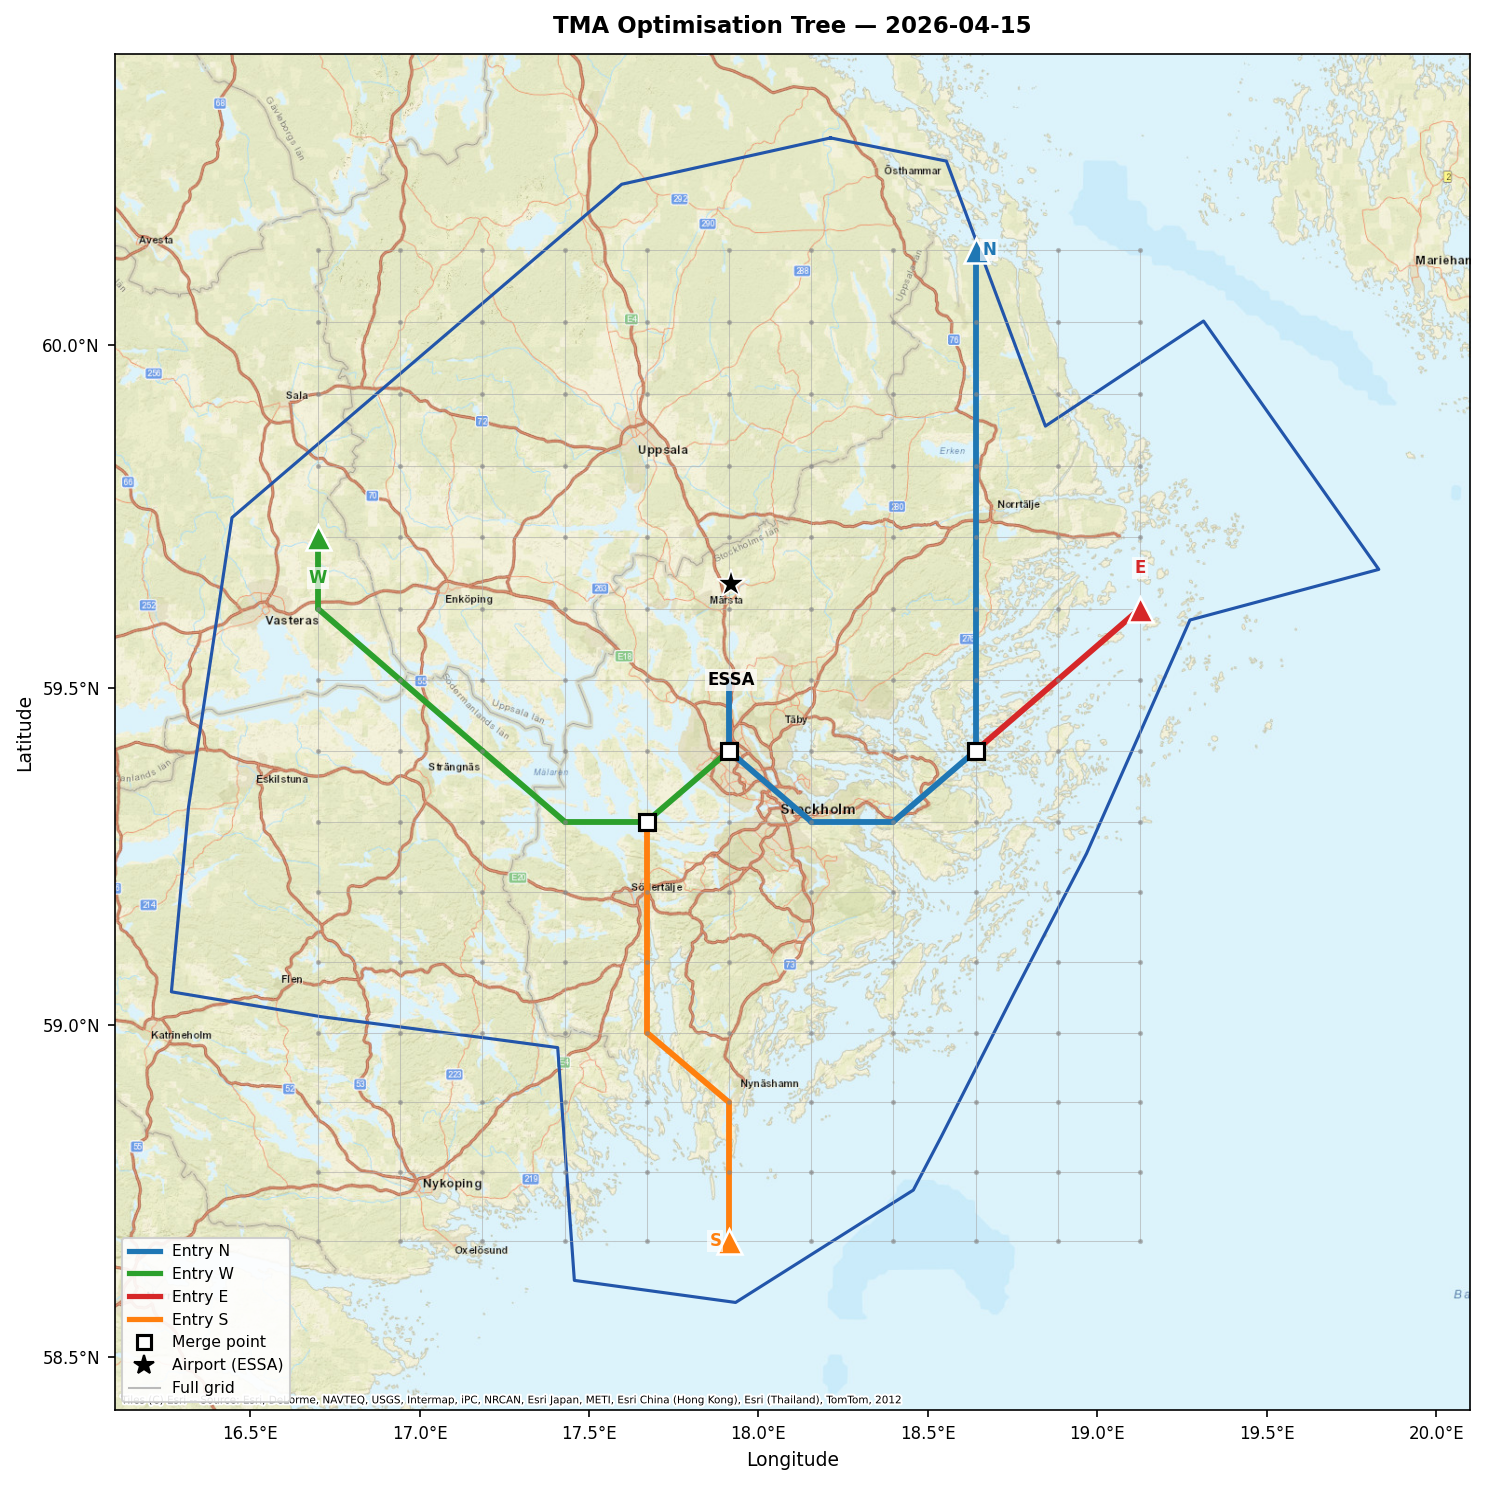
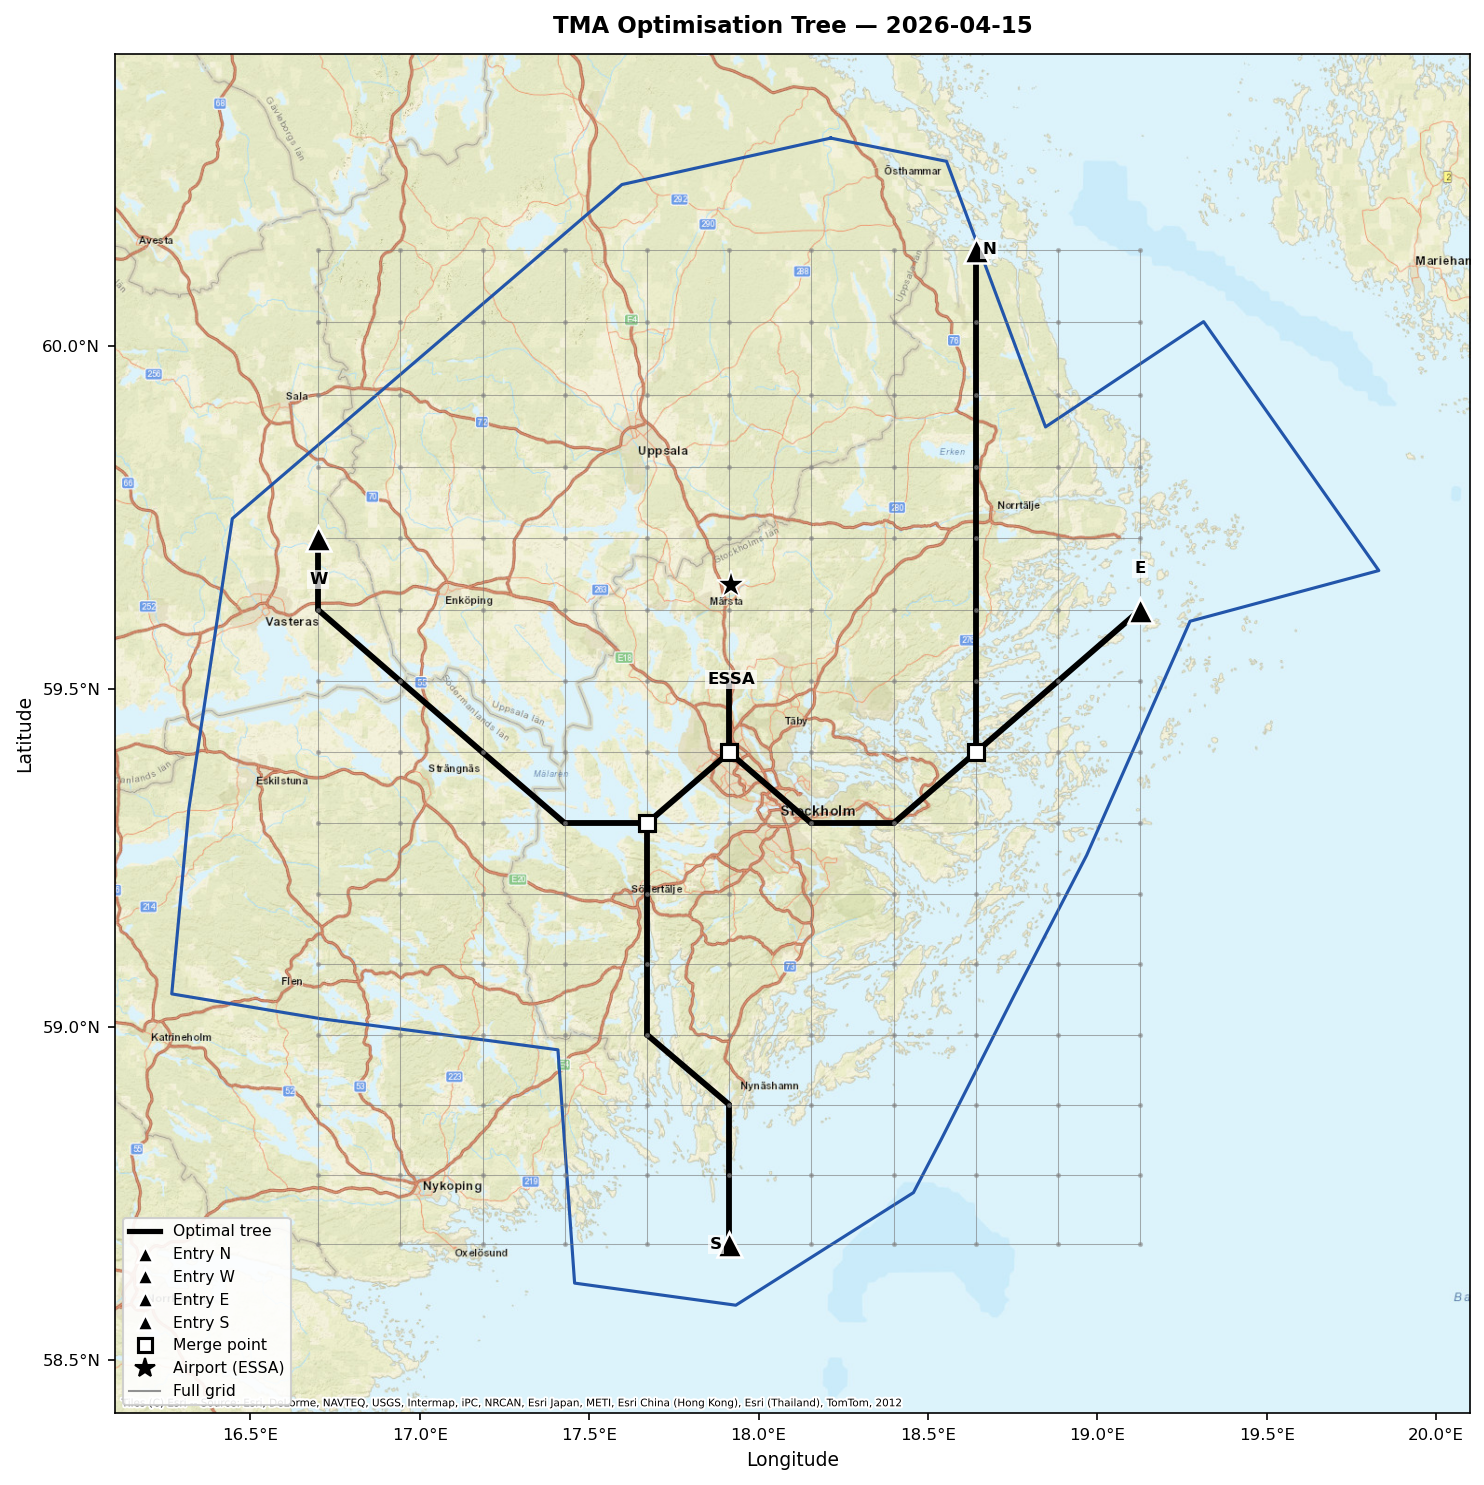
minor updates

diff --git a/make_tree_figures.py b/make_tree_figures.py
@@ -150,7 +150,7 @@ def make_figure(stem, out_dir):
         la2, lo2 = _GRID_COORDS[n2]
         xs = [_to_web(la1, lo1)[0], _to_web(la2, lo2)[0]]
         ys = [_to_web(la1, lo1)[1], _to_web(la2, lo2)[1]]
-        ax.plot(xs, ys, color='#aaaaaa', lw=0.5, zorder=4, alpha=0.6)
+        ax.plot(xs, ys, color='#777777', lw=0.5, zorder=4, alpha=0.6)
 
     # ── tree links (coloured per entry subtree) ────────────────────────────────
     # Build node→entry mapping by traversing tree from each entry node
@@ -176,8 +176,7 @@ def make_figure(stem, out_dir):
         la2, lo2 = _GRID_COORDS[n2]
         xs = [_to_web(la1, lo1)[0], _to_web(la2, lo2)[0]]
         ys = [_to_web(la1, lo1)[1], _to_web(la2, lo2)[1]]
-        col = _entry_colour(node_entry.get(n1, B[0] if B else 9))
-        ax.plot(xs, ys, color=col, lw=2.8, zorder=6, solid_capstyle='round')
+        ax.plot(xs, ys, color='black', lw=2.8, zorder=6, solid_capstyle='round')
         ax.plot(xs, ys, color='white', lw=1.0, zorder=5,
                 solid_capstyle='round', alpha=0.5)
 
@@ -204,14 +203,13 @@ def make_figure(stem, out_dir):
     for b_node in B:
         lat, lon = _GRID_COORDS[b_node]
         x, y = _to_web(lat, lon)
-        col = _entry_colour(b_node)
-        ax.plot(x, y, '^', color=col, ms=12, zorder=11, mew=1.2,
+        ax.plot(x, y, '^', color='black', ms=12, zorder=11, mew=1.2,
                 mec='white')
         dlat, dlon = dir_offset.get(b_node, (0, 0.04))
         tx, ty = _to_web(lat + dlat, lon + dlon)
         direction = dir_label.get(b_node, '?')
         ax.text(tx, ty, direction, ha='center', va='center', fontsize=8,
-                fontweight='bold', color=col,
+                fontweight='bold', color='black',
                 bbox=dict(fc='white', ec='none', alpha=0.7, pad=1),
                 zorder=12)
 
@@ -225,11 +223,13 @@ def make_figure(stem, out_dir):
 
     # ── legend ────────────────────────────────────────────────────────────────
     legend_handles = []
+    legend_handles.append(
+        mlines.Line2D([], [], color='black', lw=2.5, label='Optimal tree'))
     for b_node in B:
         direction = dir_label.get(b_node, '?')
-        col = _entry_colour(b_node)
         legend_handles.append(
-            mlines.Line2D([], [], color=col, lw=2.5, label=f'Entry {direction}'))
+            mlines.Line2D([], [], marker='^', color='black', ms=8, lw=0,
+                          mec='white', mew=1.2, label=f'Entry {direction}'))
     legend_handles.append(
         mlines.Line2D([], [], marker='s', color='black', ms=7, lw=0,
                       mfc='white', mew=1.5, label='Merge point'))
@@ -237,7 +237,7 @@ def make_figure(stem, out_dir):
         mlines.Line2D([], [], marker='*', color='black', ms=10, lw=0,
                       label='Airport (ESSA)'))
     legend_handles.append(
-        mlines.Line2D([], [], color='#aaaaaa', lw=1.0, alpha=0.8,
+        mlines.Line2D([], [], color='#777777', lw=1.0, alpha=0.8,
                       label='Full grid'))
     ax.legend(handles=legend_handles, loc='lower left', fontsize=7.5,
               framealpha=0.9, edgecolor='#cccccc')